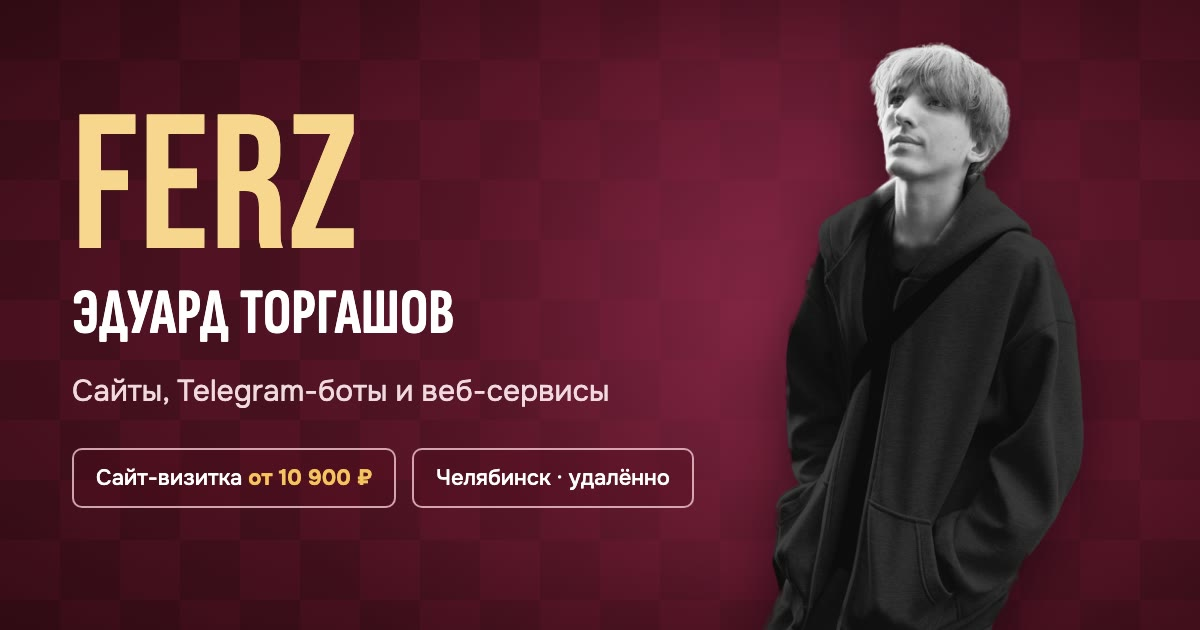
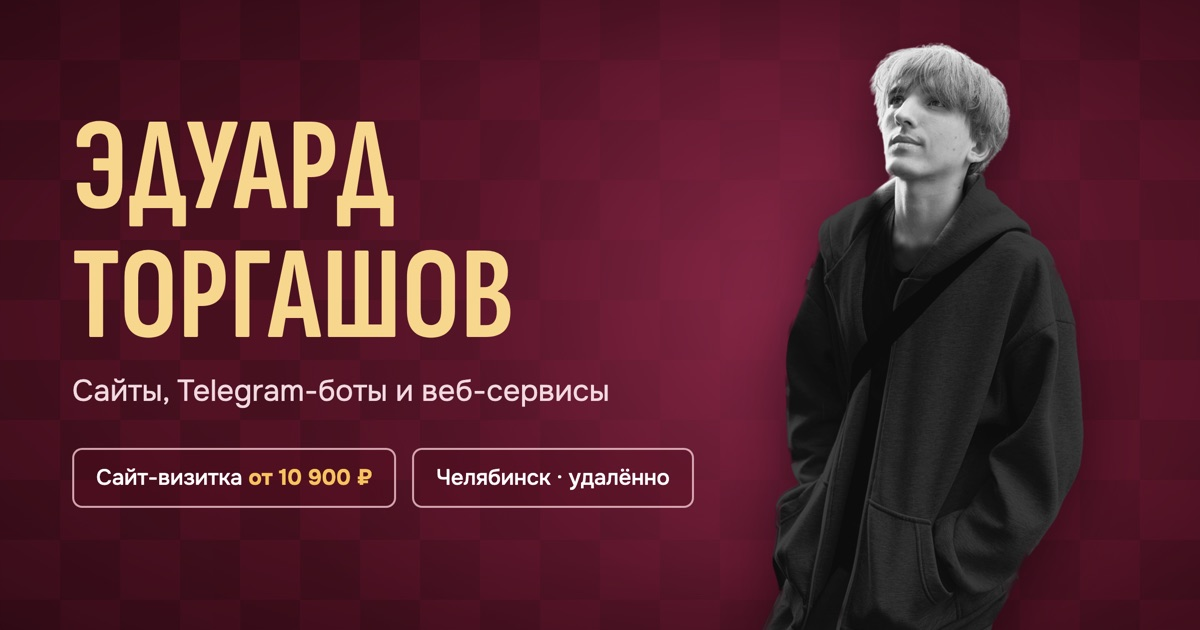
Карточка «Этот сайт»: OG-обложка без ника; срок ответа «в течение дня»; «Сопровождение» вместо платной поддержки

diff --git a/index.html b/index.html
@@ -75,7 +75,7 @@
       { "@type": "Offer", "itemOffered": { "@type": "Service", "name": "Вёрстка" } },
       { "@type": "Offer", "itemOffered": { "@type": "Service", "name": "Бэкенд" } },
       { "@type": "Offer", "itemOffered": { "@type": "Service", "name": "Наполнение сайта" } },
-      { "@type": "Offer", "itemOffered": { "@type": "Service", "name": "Платная поддержка" } }
+      { "@type": "Offer", "itemOffered": { "@type": "Service", "name": "Сопровождение" } }
     ]
   }
   </script>
@@ -226,7 +226,7 @@
           </div>
           <div class="facts__item">
             <dt>Ответ на&nbsp;заявку</dt>
-            <dd><span class="facts__num display">2</span> часа</dd>
+            <dd><span class="facts__num display">1</span> день</dd>
           </div>
           <div class="facts__item">
             <dt>В&nbsp;веб-раз&shy;работке</dt>
@@ -322,13 +322,13 @@
             <li>Вёрстка</li>
             <li>Бэкенд</li>
             <li>Наполнение сайта</li>
-            <li>Поддержка — платно</li>
+            <li>Сопровождение</li>
           </ul>
           <p class="extras__note">Стоимость этих работ и&nbsp;сроки по&nbsp;лендингам, сервисам и&nbsp;магазинам зависят от&nbsp;объёма — назову после того, как вы опишете задачу.</p>
         </div>
 
         <aside class="cta-band scope-wine" aria-label="Обсудить проект">
-          <p class="cta-band__text"><span class="display cta-band__big">Не&nbsp;знаете, с&nbsp;чего начать?</span> Опишите задачу в&nbsp;паре фраз — отвечу в&nbsp;течение двух часов и&nbsp;подскажу подходящий формат.</p>
+          <p class="cta-band__text"><span class="display cta-band__big">Не&nbsp;знаете, с&nbsp;чего начать?</span> Опишите задачу в&nbsp;паре фраз — отвечу в&nbsp;течение дня и&nbsp;подскажу подходящий формат.</p>
           <a class="btn btn--accent btn--lg" href="#contact">Отправить заявку</a>
         </aside>
       </div>
@@ -350,7 +350,7 @@
             <span class="step__num display" aria-hidden="true">1</span>
             <h3 class="step__title">Заявка</h3>
             <p class="step__text">Вы описываете задачу так, как удобно: формой на&nbsp;сайте, письмом, в&nbsp;Telegram или&nbsp;через бота.</p>
-            <p class="step__out"><span class="step__label">Вы получаете</span>Ответ в&nbsp;течение двух часов и&nbsp;уточняющие вопросы, если они нужны.</p>
+            <p class="step__out"><span class="step__label">Вы получаете</span>Ответ в&nbsp;течение дня и&nbsp;уточняющие вопросы, если они нужны.</p>
           </li>
           <li class="step">
             <span class="step__num display" aria-hidden="true">2</span>
@@ -368,7 +368,7 @@
             <span class="step__num display" aria-hidden="true">4</span>
             <h3 class="step__title">Запуск</h3>
             <p class="step__text">Проект начинает работать на&nbsp;вас. Если нужно, остаюсь на&nbsp;связи.</p>
-            <p class="step__out"><span class="step__label">Вы получаете</span>Работающий сайт, бот или&nbsp;сервис, весь код и&nbsp;дизайн — ваши. По&nbsp;желанию — платную поддержку.</p>
+            <p class="step__out"><span class="step__label">Вы получаете</span>Работающий сайт, бот или&nbsp;сервис, весь код и&nbsp;дизайн — ваши. По&nbsp;желанию — сопровождение.</p>
           </li>
         </ol>
       </div>
@@ -441,11 +441,13 @@
           </article>
 
           <article class="case" aria-labelledby="case-3-title">
-            <div class="case__shot shot shot--self" aria-hidden="true">
+            <div class="case__shot shot shot--slides">
               <div class="shot__frame">
-                <span class="sf-board"></span>
-                <svg class="sf-queen" viewBox="0 0 64 64" focusable="false"><use href="#pc-queen"/></svg>
-                <span class="sf-word display" lang="en">Ferz</span>
+                <picture class="slide is-active">
+                  <source type="image/avif" srcset="assets/works/og/01-800.avif 800w, assets/works/og/01-1600.avif 1600w" sizes="(min-width: 64em) 340px, 84vw">
+                  <source type="image/webp" srcset="assets/works/og/01-800.webp 800w, assets/works/og/01-1600.webp 1600w" sizes="(min-width: 64em) 340px, 84vw">
+                  <img class="slide__img" src="assets/works/og/01-800.jpg" srcset="assets/works/og/01-800.jpg 800w, assets/works/og/01-1600.jpg 1600w" sizes="(min-width: 64em) 340px, 84vw" width="1600" height="840" loading="lazy" decoding="async" alt="Обложка этого сайта: Эдуард Торгашов, сайты, Telegram-боты и веб-сервисы, сайт-визитка от 10 900 рублей, Челябинск, удалённо">
+                </picture>
               </div>
             </div>
             <div class="case__body">
@@ -512,7 +514,7 @@
           <span class="move-head__num display" aria-hidden="true">06</span>
           <div class="move-head__body">
             <h2 class="move-head__title display" id="faq-title">Вопросы</h2>
-            <p class="move-head__lead">Нет вашего вопроса? Напишите — отвечу в&nbsp;течение двух часов.</p>
+            <p class="move-head__lead">Нет вашего вопроса? Напишите — отвечу в&nbsp;течение дня.</p>
           </div>
         </header>
 
@@ -523,7 +525,7 @@
           </details>
           <details class="qa">
             <summary class="qa__q">Что входит в&nbsp;стоимость?</summary>
-            <div class="qa__a"><p>Дизайн, вёрстка, серверная часть, запуск и&nbsp;правки — пока результат вас не&nbsp;устроит. Отдельно и&nbsp;платно — поддержка после запуска.</p></div>
+            <div class="qa__a"><p>Дизайн, вёрстка, серверная часть, запуск и&nbsp;правки — пока результат вас не&nbsp;устроит. Отдельно — сопровождение после запуска.</p></div>
           </details>
           <details class="qa">
             <summary class="qa__q">Нужна ли предоплата?</summary>
@@ -535,15 +537,15 @@
           </details>
           <details class="qa">
             <summary class="qa__q">Кому принадлежат права на&nbsp;код и&nbsp;дизайн?</summary>
-            <div class="qa__a"><p>Вам: код и&nbsp;дизайн я&nbsp;передаю целиком. Со&nbsp;своей стороны я&nbsp;прошу согласия показать проект как кейс в&nbsp;своих соцсетях и&nbsp;на&nbsp;этом сайте. Менять готовый сайт я&nbsp;буду, только если вы подключили поддержку.</p></div>
+            <div class="qa__a"><p>Вам: код и&nbsp;дизайн я&nbsp;передаю целиком. Со&nbsp;своей стороны я&nbsp;прошу согласия показать проект как кейс в&nbsp;своих соцсетях и&nbsp;на&nbsp;этом сайте. Менять готовый сайт я&nbsp;буду, только если вы подключили сопровождение.</p></div>
           </details>
           <details class="qa">
-            <summary class="qa__q">Будете поддерживать проект после запуска?</summary>
-            <div class="qa__a"><p>Да, поддержка есть — она платная. Объём и&nbsp;условия обсудим под ваш проект.</p></div>
+            <summary class="qa__q">Будете сопровождать проект после запуска?</summary>
+            <div class="qa__a"><p>Да, сопровождение есть. Объём и&nbsp;условия обсудим под ваш проект.</p></div>
           </details>
           <details class="qa">
             <summary class="qa__q">Как заказать и&nbsp;что нужно от&nbsp;меня?</summary>
-            <div class="qa__a"><p>Оставьте заявку через форму ниже, напишите на&nbsp;почту, в&nbsp;Telegram или&nbsp;через бота. Достаточно пары фраз о&nbsp;задаче и&nbsp;контакта для&nbsp;ответа. Тексты, фото и&nbsp;примеры, которые вам нравятся, пригодятся, но&nbsp;наполнение сайта я&nbsp;тоже могу взять на&nbsp;себя. Отвечаю в&nbsp;течение двух часов.</p></div>
+            <div class="qa__a"><p>Оставьте заявку через форму ниже, напишите на&nbsp;почту, в&nbsp;Telegram или&nbsp;через бота. Достаточно пары фраз о&nbsp;задаче и&nbsp;контакта для&nbsp;ответа. Тексты, фото и&nbsp;примеры, которые вам нравятся, пригодятся, но&nbsp;наполнение сайта я&nbsp;тоже могу взять на&nbsp;себя. Отвечаю в&nbsp;течение дня.</p></div>
           </details>
           <details class="qa">
             <summary class="qa__q">Вы работаете только удалённо?</summary>
@@ -570,7 +572,7 @@
       <div class="wrap contact__grid">
         <div class="contact__intro">
           <h2 class="contact__title display" id="contact-title">Ваш ход</h2>
-          <p class="contact__lead">Расскажите о&nbsp;задаче в&nbsp;паре фраз — отвечу <strong>в&nbsp;течение двух часов</strong>. Можно формой, письмом или&nbsp;в&nbsp;Telegram.</p>
+          <p class="contact__lead">Расскажите о&nbsp;задаче в&nbsp;паре фраз — отвечу <strong>в&nbsp;течение дня</strong>. Можно формой, письмом или&nbsp;в&nbsp;Telegram.</p>
 
           <ul class="direct" role="list" aria-label="Прямые контакты">
             <li class="direct__item">
@@ -594,7 +596,7 @@
           </div>
 
           <ol class="next" role="list">
-            <li><b>В&nbsp;течение двух часов</b> отвечу и&nbsp;при необходимости задам уточняющие вопросы.</li>
+            <li><b>В&nbsp;течение дня</b> отвечу и&nbsp;при необходимости задам уточняющие вопросы.</li>
             <li><b>Затем</b> назову стоимость и&nbsp;срок под вашу задачу — до&nbsp;начала работы.</li>
             <li><b>Если всё подходит</b> — начинаем. Платите, когда результат вас устроил.</li>
           </ol>

diff --git a/js/main.js b/js/main.js
@@ -824,7 +824,7 @@
             markSent();
             track('form_success');
             form.reset();
-            say('Спасибо, заявка отправлена. Отвечу в течение двух часов на указанный контакт.', 'is-ok');
+            say('Спасибо, заявка отправлена. Отвечу в течение дня на указанный контакт.', 'is-ok');
             return;
           }
           if (r.status === 422 && r.body.fields && typeof r.body.fields === 'object') {
